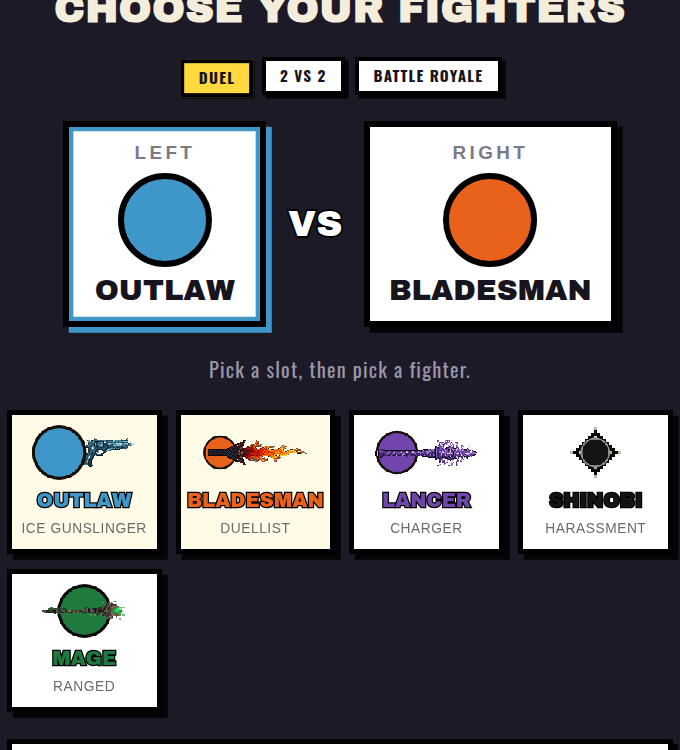
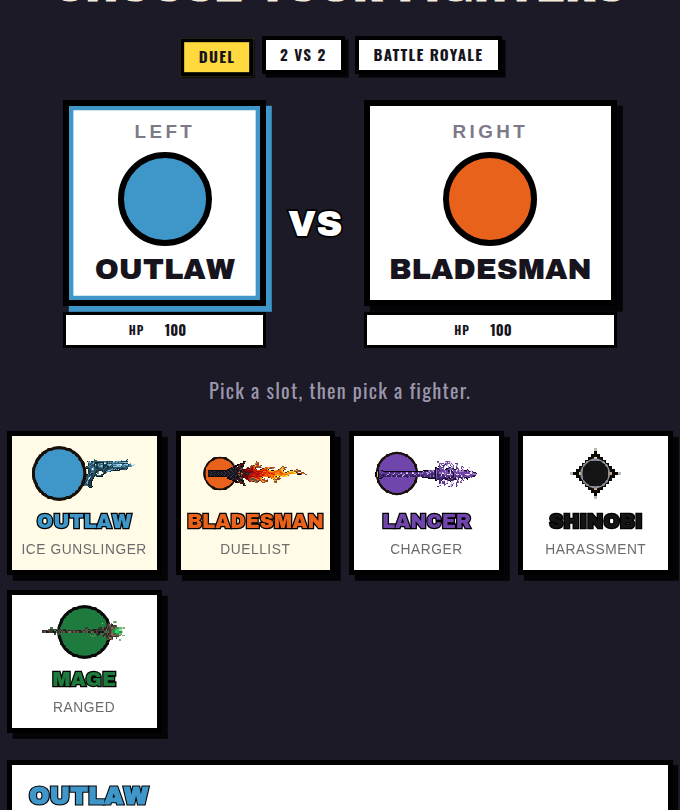
Points de vie réglables par combattant, 100 par défaut
Un champ PV sous chaque emplacement de l'écran de sélection, et `?hp=250,100`
dans l'URL. Bornes 1–999 ; 100 reste le défaut et la valeur du cahier des
charges.

CE QUI PORTE LA VALEUR

`Fighter.maxHp` remplace `MATCH.maxHp` partout où c'était lu. Quatre lecteurs,
et un cinquième qu'il fallait chercher :

  fighter.js   les PV de départ
  match.js     le plafond des soins (`heal`)
  hud.js       la barre du HUD multi
  flair.js     LE CERCLAGE ROUGE DE DANGER, écrit en valeur ABSOLUE
               (`hp > 25`) : à 500 PV il ne se serait jamais allumé, à 20 PV
               il l'aurait été d'entrée. Passé à un quart de `maxHp`, soit
               toujours 25 au défaut.

La leçon vaut au-delà de ce cas et est notée dans CLAUDE.md : un seuil écrit en
valeur absolue devient faux le jour où la grandeur qu'il compare devient
réglable, et il ne crie pas en devenant faux.

ENTRÉES LIBRES, DONC BORNÉES AU MOTEUR

Le champ de l'écran et `?hp=` sont deux entrées libres : `Match` borne chaque
valeur et retombe sur 100 pour tout ce qui n'est pas un entier dans les bornes.
Vérifié : `NaN`, `'abc'`, `0` et `99999` rendent tous un duel identique au duel
par défaut. Un combattant à `NaN` PV serait mort d'entrée sans que rien ne le
dise.

Le champ ne se borne pas à la frappe mais à la sortie du champ : borner à
chaque touche empêchait de taper « 250 », le « 2 » devenant aussitôt le
minimum. Et il est posé À CÔTÉ du bouton d'emplacement, pas dedans : un
[…]

diff --git a/src/ui/select.js b/src/ui/select.js
@@ -9,6 +9,7 @@
  */
 
 import { ELEMENTS, ROSTER } from '../data/elements.js';
+import { MATCH } from '../data/tuning.js';
 import { UI, label } from './lang.js';
 import { PIXEL_MAPS } from '../data/pixelmaps.js';
 import { compilePixelMap } from '../render/pixelart.js';
@@ -47,6 +48,12 @@ export function createSelectScreen({ root, onStart, lang = 'ref' }) {
    * @type {string[]}
    */
   const picks = Array.from({ length: 5 }, (_, i) => ROSTER[i % ROSTER.length]);
+  /**
+   * Points de vie de chaque emplacement. 100 pour tous par défaut — la valeur
+   * du cahier des charges — et gardés d'un format à l'autre, comme les choix de
+   * combattants.
+   */
+  const vies = Array.from({ length: 5 }, () => MATCH.maxHp);
   let active = 0;
 
   /** Les emplacements du DOM, reconstruits à chaque changement de format. */
@@ -173,8 +180,39 @@ export function createSelectScreen({ root, onStart, lang = 'ref' }) {
 
       btn.append(tag, orb, name);
       btn.addEventListener('click', () => { active = i; refresh(); });
-      groupe.append(btn);
-      slotBtns.push({ btn, orb, name });
+
+      /**
+       * Le champ de points de vie est **à côté** du bouton, pas dedans : un
+       * `<input>` à l'intérieur d'un `<button>` est invalide, et le clic dans le
+       * champ déclencherait la sélection de l'emplacement.
+       */
+      const boite = document.createElement('div');
+      boite.className = 'slot-wrap';
+      const champ = document.createElement('label');
+      champ.className = 'slot-hp';
+      const tagHp = document.createElement('span');
+      tagHp.textContent = t.hpLabel;
+      const input = document.createElement('input');
+      input.type = 'number';
+      input.min = String(MATCH.hpRange.min);
+      input.max = String(MATCH.hpRange.max);
+      input.step = '10';
+      input.value = String(vies[i]);
+      input.addEventListener('input', () => {
+        const v = Math.round(Number(input.value));
+        // On ne réécrit pas le champ pendant la frappe : borner à chaque touche
+        // empêcherait de taper « 250 » (le « 2 » deviendrait le minimum).
+        if (Number.isFinite(v) && v >= MATCH.hpRange.min && v <= MATCH.hpRange.max) vies[i] = v;
+      });
+      input.addEventListener('blur', () => {
+        vies[i] = Math.max(MATCH.hpRange.min, Math.min(MATCH.hpRange.max, Math.round(Number(input.value)) || MATCH.maxHp));
+        input.value = String(vies[i]);
+      });
+      champ.append(tagHp, input);
+
+      boite.append(btn, champ);
+      groupe.append(boite);
+      slotBtns.push({ btn, orb, name, input });
     }
     sizeEl.hidden = mode !== 'royale';
     sizeLabel.textContent = String(taille);
@@ -186,7 +224,7 @@ export function createSelectScreen({ root, onStart, lang = 'ref' }) {
   startBtn.addEventListener('click', () => {
     const ids = picks.slice(0, taille);
     if (ids.some((id) => !id)) return;
-    onStart(ids, FORMATS[mode].camps(taille));
+    onStart(ids, FORMATS[mode].camps(taille), vies.slice(0, taille));
   });
 
   function showSheet(id) {
@@ -226,7 +264,8 @@ export function createSelectScreen({ root, onStart, lang = 'ref' }) {
     for (const card of rosterEl.children) {
       card.setAttribute('aria-pressed', String(retenus.includes(card.dataset.id)));
     }
-    slotBtns.forEach(({ btn, orb, name }, i) => {
+    slotBtns.forEach(({ btn, orb, name, input }, i) => {
+      if (input) input.value = String(vies[i]);
       const el = picks[i] ? ELEMENTS[picks[i]] : null;
       btn.setAttribute('aria-current', String(active === i));
       btn.style.setProperty('--accent', el ? el.look.body : '#000');

diff --git a/src/main.js b/src/main.js
@@ -55,16 +55,16 @@ applyStaticLabels(document, LANG);
 
 const selectScreen = createSelectScreen({
   root: document.querySelector('#screen-select'),
-  onStart: (ids, teams) => startMatch(ids, undefined, teams),
+  onStart: (ids, teams, hp) => startMatch(ids, undefined, teams, hp),
   lang: LANG,
 });
 
 const resultScreen = createResultScreen({
   root: document.querySelector('#screen-result'),
   // revanche : même affiche, nouveau tirage
-  onRematch: () => startMatch(lastPair, undefined, lastTeams),
+  onRematch: () => startMatch(lastPair, undefined, lastTeams, lastHp),
   // revoir : même affiche ET même seed, donc exactement le même duel
-  onReplay: () => startMatch(lastPair, lastSeed, lastTeams),
+  onReplay: () => startMatch(lastPair, lastSeed, lastTeams, lastHp),
   onExport: () => recorder.download(`duel-${lastPair.join('-')}-seed${lastSeed}`),
   lang: LANG,
   onBack: () => {
@@ -82,6 +82,8 @@ const resultScreen = createResultScreen({
 let lastPair = [ROSTER[0], ROSTER[1] ?? ROSTER[0]];
 /** Camps de la dernière partie : la revanche et le replay doivent les garder. */
 let lastTeams;
+/** Points de vie de la dernière partie, gardés pour les mêmes raisons. */
+let lastHp;
 let lastSeed = 0;
 
 /**
@@ -89,10 +91,12 @@ let lastSeed = 0;
  * @param {number} [seed] fournie = duel rejoué à l'identique, sinon nouveau tirage
  * @param {number[]} [teams] camp de chacun. Omis, chacun le sien — ce qui donne
  *   le duel à deux et la bataille royale au-delà.
+ * @param {number[]} [hp] points de vie de chacun. Omis, 100 pour tous.
  */
-function startMatch(pair, seed, teams) {
+function startMatch(pair, seed, teams, hp) {
   lastPair = pair;
   lastTeams = teams;
+  lastHp = hp;
   lastSeed = seed ?? seedFromLocation();
   selectScreen.hide();
   resultScreen.hide();
@@ -101,6 +105,7 @@ function startMatch(pair, seed, teams) {
   match = new Match({
     elements: pair,
     teams: lastTeams,
+    hp: lastHp,
     rng: createRng(lastSeed),
     lang: LANG,
     debug: DEBUG,
@@ -146,12 +151,20 @@ async function boot() {
    */
   const liste = (params.get('f') ?? '').split(',').filter(Boolean);
   const camps = (params.get('teams') ?? '').split(',').filter((s) => s !== '').map(Number);
+  // `?hp=` : les points de vie, dans le même ordre. Une valeur invalide retombe
+  // sur 100 côté moteur, qui borne déjà chaque entrée.
+  const vies = (params.get('hp') ?? '').split(',').filter((s) => s !== '').map(Number);
   const a = params.get('a');
   const b = params.get('b');
   if (liste.length >= 2 && liste.every((id) => ELEMENTS[id])) {
-    startMatch(liste, undefined, camps.length === liste.length ? camps : undefined);
+    startMatch(
+      liste,
+      undefined,
+      camps.length === liste.length ? camps : undefined,
+      vies.length ? vies : undefined,
+    );
   } else if (a && b && ELEMENTS[a] && ELEMENTS[b]) {
-    startMatch([a, b]);
+    startMatch([a, b], undefined, undefined, vies.length ? vies : undefined);
   } else {
     selectScreen.show();
     // une frame « à vide » pour que le décor soit déjà là derrière l'overlay

diff --git a/src/game/match.js b/src/game/match.js
@@ -60,14 +60,17 @@ function spawnFor(i, n) {
 
 export class Match {
   /**
-   * @param {{elements:string[], teams?:number[], rng:object, lang:'ref'|'fr',
-   *          debug?:boolean, onEnd:(result:object)=>void}} opts
+   * @param {{elements:string[], teams?:number[], hp?:number[], rng:object,
+   *          lang:'ref'|'fr', debug?:boolean, onEnd:(result:object)=>void}} opts
    *
    * `teams` donne le camp de chaque combattant, dans l'ordre d'`elements`.
    * Omis, chacun a le sien — chacun pour soi, et le duel d'origine quand il y
    * en a deux. `[0, 0, 1, 1]` fait un 2 contre 2.
+   *
+   * `hp` donne les points de vie de chacun, dans le même ordre. Omis ou
+   * incomplet, chacun prend les 100 du cahier des charges.
    */
-  constructor({ elements, teams = null, rng, lang = 'ref', debug = false, onEnd }) {
+  constructor({ elements, teams = null, hp = null, rng, lang = 'ref', debug = false, onEnd }) {
     const els = elements.map((id) => getElement(id));
     if (els.length < 2) throw new Error('[match] il faut au moins deux combattants');
     for (const el of els) assertFrozen(el, el.id);
@@ -97,7 +100,20 @@ export class Match {
      */
     this.teams = teams ? teams.slice(0, n) : els.map((_, i) => i);
 
-    this.fighters = els.map((el, i) => new Fighter(el, i, rng, spawnFor(i, n)));
+    /**
+     * Points de vie de départ. Une valeur absente, nulle ou hors bornes retombe
+     * sur les 100 par défaut : l'écran de sélection et l'URL sont deux entrées
+     * libres, et un `?hp=abc` ne doit pas lancer un duel avec `NaN` PV — un
+     * combattant à `NaN` est mort d'entrée sans que rien ne le dise.
+     */
+    this.hp = els.map((_, i) => {
+      const v = Math.round(Number(hp?.[i]));
+      return Number.isFinite(v) && v >= MATCH.hpRange.min && v <= MATCH.hpRange.max
+        ? v
+        : MATCH.maxHp;
+    });
+
+    this.fighters = els.map((el, i) => new Fighter(el, i, rng, spawnFor(i, n), this.hp[i]));
     this.fighters.forEach((f, i) => { f.team = this.teams[i]; });
     // `a` et `b` restent les deux premiers : le HUD du duel, la mise au point et
     // l'écran de fin les lisent, et ils n'ont de sens qu'à deux.
@@ -428,7 +444,7 @@ export class Match {
   heal(target, amount, source) {
     if (!target.alive || this.settled) return 0;
     const before = target.hp;
-    target.hp = Math.min(MATCH.maxHp, target.hp + Math.max(0, amount));
+    target.hp = Math.min(target.maxHp, target.hp + Math.max(0, amount));
     const healed = target.hp - before;
     if (healed > 0) {
       this.fx.burst(target.x, target.y, 8, {

diff --git a/styles/style.css b/styles/style.css
@@ -211,9 +211,46 @@ body {
    fil du texte quand la ligne passe à la ligne. */
 .slot-team {
   display: flex;
-  align-items: center;
+  align-items: flex-start;
   gap: 2cqw;
 }
+
+/* Emplacement + son champ de points de vie. Le champ est à côté du bouton et
+   non dedans : un `input` dans un `button` est invalide, et le clic dans le
+   champ sélectionnerait l'emplacement. */
+.slot-wrap {
+  display: flex;
+  flex-direction: column;
+  align-items: stretch;
+  gap: 0.8cqw;
+}
+
+.slot-hp {
+  display: flex;
+  align-items: center;
+  justify-content: center;
+  gap: 0.8cqw;
+  background: #fff;
+  border: 0.5cqw solid #000;
+  padding: 0.5cqw 1cqw;
+  font: 700 1.6cqw/1 'Oswald', 'Arial Narrow', sans-serif;
+  letter-spacing: 0.08em;
+  color: #17141d;
+}
+
+.slot-hp input {
+  width: 7cqw;
+  border: 0;
+  background: transparent;
+  font: 700 2cqw/1 'Oswald', 'Arial Narrow', sans-serif;
+  color: #17141d;
+  text-align: center;
+  -moz-appearance: textfield;
+}
+
+.slot-hp input::-webkit-outer-spin-button,
+.slot-hp input::-webkit-inner-spin-button { -webkit-appearance: none; margin: 0; }
+.slot-hp input:focus { outline: 0.4cqw solid #ffd93d; }
 
 /* À trois emplacements et plus, les cartes du duel ne tiennent plus : on les
    resserre plutôt que de laisser la ligne déborder. */

diff --git a/src/game/fighter.js b/src/game/fighter.js
@@ -24,8 +24,11 @@ export class Fighter {
    *   vidéo**. Au-delà de deux combattants ces deux points ne suffisent plus et
    *   c'est `Match` qui répartit l'anneau, mais le duel repasse exactement par
    *   la valeur d'origine.
+   * @param {number} [maxHp] points de vie de départ. 100 par défaut, la valeur
+   *   du cahier des charges ; réglable par combattant depuis l'écran de
+   *   sélection ou l'URL.
    */
-  constructor(element, slot, rng, spawn = MATCH.spawn[slot]) {
+  constructor(element, slot, rng, spawn = MATCH.spawn[slot], maxHp = MATCH.maxHp) {
     this.el = element;
     this.slot = slot;
     this.rng = rng;
@@ -47,7 +50,16 @@ export class Fighter {
     this.impulseX = 0;
     this.impulseY = 0;
 
-    this.hp = MATCH.maxHp;
+    /**
+     * Points de vie de départ, **et plafond des soins**. Portés par le
+     * combattant et non par `MATCH` : chacun peut avoir les siens, ce qui
+     * permet de compenser un combattant faible sans toucher à sa fiche, ou de
+     * poser un handicap. Tout ce qui affiche une proportion de vie (barre du
+     * HUD, cerclage rouge de danger) doit donc diviser par **celui-ci**, pas
+     * par une constante.
+     */
+    this.maxHp = maxHp;
+    this.hp = maxHp;
     this.flash = 0;
     this.invulnerable = 0;
 

diff --git a/src/render/flair.js b/src/render/flair.js
@@ -981,8 +981,12 @@ export class Flair {
   /** État critique : au-dessus des combattants, sous les nombres. */
   drawDanger(ctx, fighters, now) {
     for (const f of fighters) {
-      if (!f.onStage || f.hp > 25) continue;
-      const urgency = 1 - f.hp / 25;
+      // **Un quart de ses points de vie**, pas 25 en absolu : avec des PV
+      // réglables, un seuil fixe s'allumerait d'entrée à 20 PV et jamais à 500.
+      // À 100 PV — le défaut — le seuil vaut toujours 25.
+      const seuil = f.maxHp * 0.25;
+      if (!f.onStage || f.hp > seuil) continue;
+      const urgency = 1 - f.hp / seuil;
       const beat = 0.5 + 0.5 * Math.sin(now * (7 + urgency * 9));
       ctx.save();
       ctx.globalAlpha = (0.28 + 0.42 * urgency) * beat;

diff --git a/src/data/tuning.js b/src/data/tuning.js
@@ -136,6 +136,15 @@ export const PHYSICS = deepFreeze({
 
 export const MATCH = deepFreeze({
   maxHp: 100,
+
+  /**
+   * Bornes des points de vie réglables. 100 reste le défaut et la valeur du
+   * cahier des charges ; les bornes ne sont là que pour qu'une saisie libre —
+   * champ de l'écran de sélection, `?hp=` dans l'URL — ne puisse pas produire
+   * un duel absurde. Le plancher est à 1 : à 0 le combattant serait mort avant
+   * la première image.
+   */
+  hpRange: { min: 1, max: 999 },
   /** Petit temps mort avant l'engagement, le décor est déjà en place. */
   introDuration: 0.9,
   /** Ralenti + explosion au K.O. */

diff --git a/src/render/hud.js b/src/render/hud.js
@@ -11,7 +11,7 @@
  * @module render/hud
  */
 
-import { HUD, MATCH, STAGE } from '../data/tuning.js';
+import { HUD, STAGE } from '../data/tuning.js';
 import { clamp } from '../core/math.js';
 import { drawFittedText } from './text.js';
 import { label } from '../ui/lang.js';
@@ -148,7 +148,7 @@ export function drawRosterHud(ctx, fighters, lang) {
     const { f, col, row } = places[i];
     const x = col === 0 ? g.leftX : g.rightX;
     const y = g.y + row * rowH;
-    const v = clamp(f.hp / MATCH.maxHp, 0, 1);
+    const v = clamp(f.hp / f.maxHp, 0, 1);
 
     // plaque crème, comme les jauges du duel
     ctx.fillStyle = STAGE.plate;

diff --git a/src/ui/lang.js b/src/ui/lang.js
@@ -38,6 +38,7 @@ export const UI = {
     teamB: 'TEAM B',
     slotN: (i) => `FIGHTER ${i}`,
     startRoyale: 'START THE BRAWL',
+    hpLabel: 'HP',
     standings: 'FINAL STANDINGS',
     // --- écran de fin (statique)
     ko: 'K.O.',
@@ -113,6 +114,7 @@ export const UI = {
     teamB: 'ÉQUIPE B',
     slotN: (i) => `COMBATTANT ${i}`,
     startRoyale: 'LANCER LA MÊLÉE',
+    hpLabel: 'PV',
     standings: 'CLASSEMENT',
     start: 'LANCER LE DUEL',
     ko: 'K.O.',

diff --git a/README.md b/README.md
@@ -34,6 +34,18 @@ Au-delà de deux combattants, chacun vise l'**ennemi vivant le plus proche** et
 peut changer de cible d'un pas à l'autre ; le HUD passe à une plaque compacte
 par combattant, et l'écran de fin affiche un classement.
 
+### Points de vie réglables
+
+Chaque emplacement porte un champ **PV**, à 100 par défaut — la valeur du cahier
+des charges — et réglable de 1 à 999. C'est le moyen le plus direct de corriger
+un déséquilibre ou de poser un handicap sans toucher à une fiche : le Bretteur à
+150 PV contre le Lancier à 100, par exemple. Tout ce qui affiche une proportion
+de vie (barre du HUD, cerclage rouge sous un quart de vie) suit la valeur du
+combattant, pas une constante.
+
+La matrice d'équilibrage, elle, joue toujours à 100 : c'est ce qui en fait un
+garde-fou stable.
+
 Chacun porte en plus un **pouvoir spécial**, sur horloge propre, avec sa jauge
 juste sous celle de l'ultime. Il s'ajoute à l'ultime, il ne le remplace pas —
 voir [`docs/FICHES.md`](docs/FICHES.md).
@@ -82,6 +94,7 @@ empêche Jekyll d'ignorer les dossiers.
 | `?a=&b=`     | lance directement un duel sans écran de sélection — `outlaw`, `bladesman`, `lancer`, `wind` (le Shinobi), `mage` |
 | `?f=`        | une liste de combattants, pour une partie à plusieurs : `?f=outlaw,mage,lancer,wind` |
 | `?teams=`    | les camps, dans le même ordre que `?f=` : `0,0,1,1` fait un 2 contre 2. Omis, chacun pour soi |
+| `?hp=`       | les points de vie de chacun, dans le même ordre : `?hp=250,100`. Omis ou invalide, 100 (bornes 1–999) |
 | `?seed=1234` | rejoue **exactement** le même duel (déterminisme complet)          |
 | `?lang=fr`   | **toute l'interface** en français — HUD, titre d'arène et écrans DOM (par défaut : l'anglais de la vidéo) |
 | `?debug=1`   | hitboxes, vitesses, charge d'ultime, seed                          |

diff --git a/CLAUDE.md b/CLAUDE.md
@@ -133,6 +133,18 @@ peut blesser qui.
 | 2 contre 2 | 4 identifiants | `[0, 0, 1, 1]` |
 | Bataille royale | 3 à 5 identifiants | omis → chacun le sien |
 
+**Les points de vie se règlent par combattant** (`hp`, un tableau dans le même
+ordre ; 100 par défaut, bornés 1–999). C'est le levier le moins cher pour
+compenser un déséquilibre sans toucher à une fiche — et le seul qui ne demande
+pas de repasser la matrice, puisqu'elle joue toujours à 100.
+
+`Fighter.maxHp` porte la valeur ; **rien ne doit plus diviser par une
+constante**. Le cerclage rouge de danger le faisait (`hp > 25`) : à 500 PV il ne
+se serait jamais allumé, à 20 PV il l'aurait été d'entrée. C'est passé à un
+quart de `maxHp` — soit toujours 25 au défaut. La leçon vaut au-delà : **un
+seuil écrit en valeur absolue devient faux le jour où la grandeur qu'il compare
+devient réglable**, et il ne crie pas en devenant faux.
+
 `ui/select.js` porte la table des formats et fabrique les camps ; `main.js` les
 lit aussi depuis l'URL (`?f=a,b,c&teams=0,0,1`). Ajouter un format (3 contre 3,
 deux équipes de trois, un contre tous) ne demande **qu'une entrée dans cette
